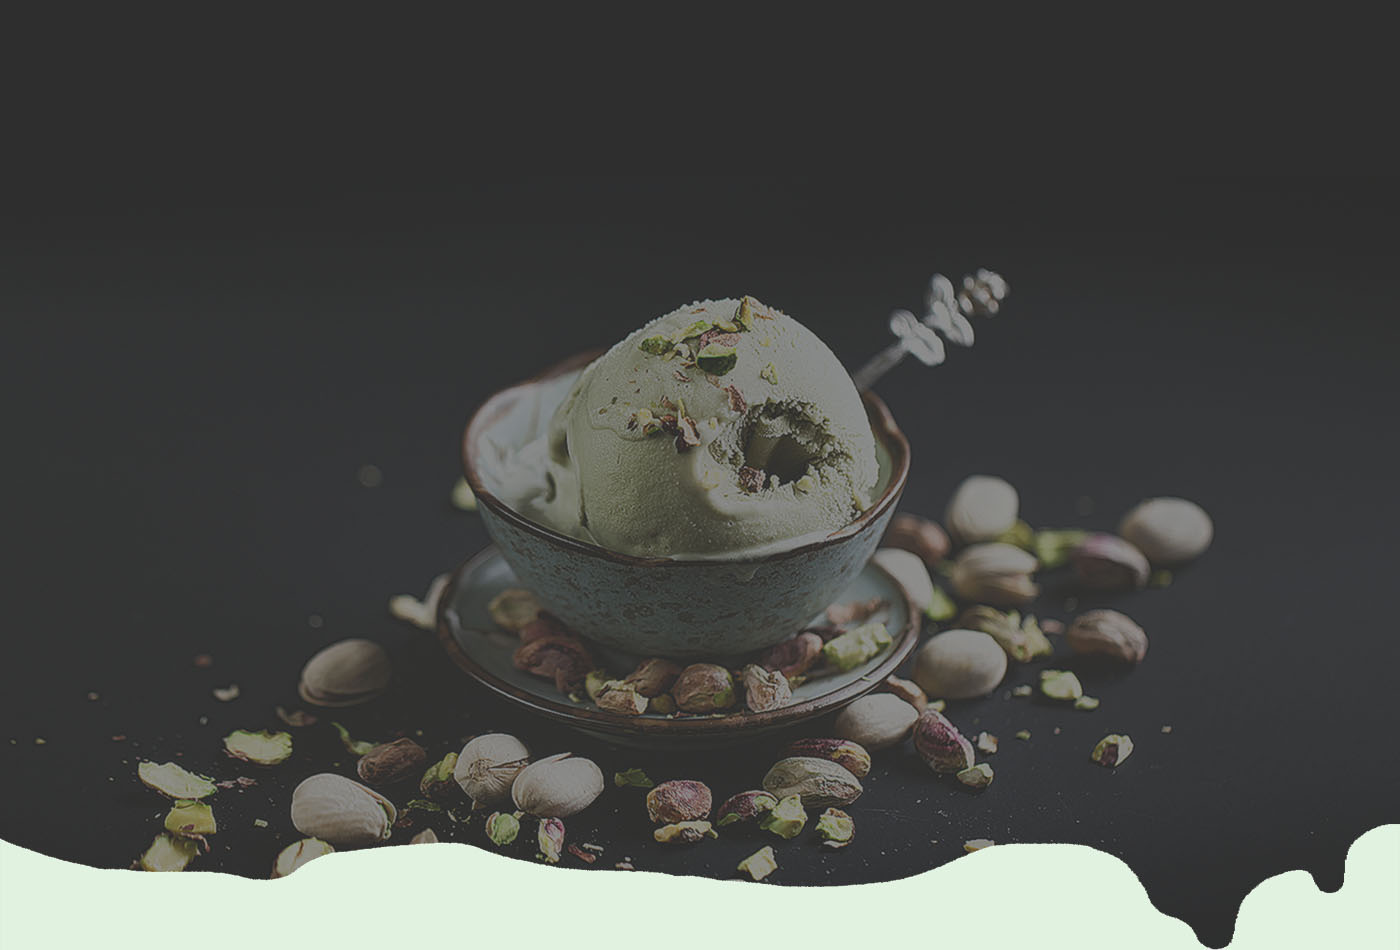
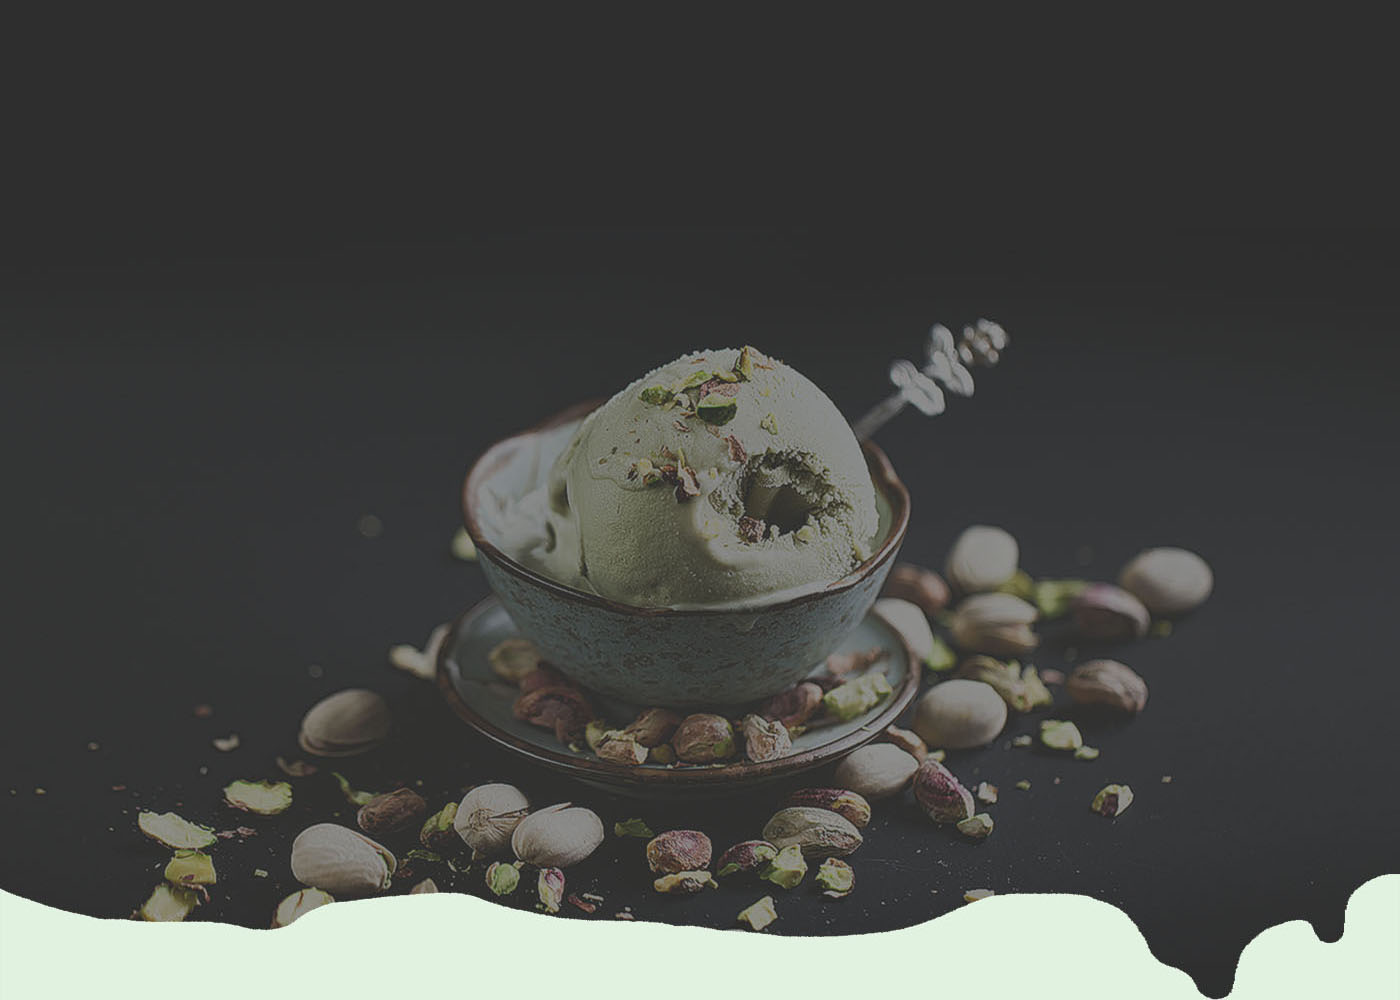
fix menu

diff --git a/icecream_shop/css/style.css b/icecream_shop/css/style.css
@@ -13,7 +13,13 @@ body {
 	clear: both;
 }
 
+.header {
+	background-color: #2e2e2e;
+	color: white;
+}
+
 .menu {
+	background-color: transparent;
 	width: 100%;
 	padding: 0px;
 }
@@ -93,14 +99,14 @@ body {
 	padding: 0px 15px;
 }
 
-.header {
+.banner {
 	background-image: url('../images/ice3.jpg');
 	background-repeat: no-repeat;
 	-webkit-background-size: cover;
 	-moz-background-size: cover;
 	-o-background-size: cover;
 	background-size: cover;
-	background-position: center; 
+	background-position: center bottom; 
 	position: relative;
 	color: white;
 }
@@ -247,13 +253,13 @@ body {
 	color: white;
 }
 
-.banner {
+.banner-content {
 	text-align: center;
-    width: 100%;
-    position: absolute;
-    left: 50%;
-    top: 50%;
-    transform: translate(-50%, -50%);
+	width: 100%;
+	position: absolute;
+	left: 50%;
+	top: 50%;
+	transform: translate(-50%, -50%);
 }
 
 .banner button {
@@ -982,6 +988,10 @@ button#signin:hover, button#confirmsignup:hover {
 	.social-item a i {
 		font-size: 0.6em;
 	}
+
+	.banner {
+		height: 500px;
+	}
 }
 
 @media (min-width: 500px) {
@@ -1027,6 +1037,10 @@ button#signin:hover, button#confirmsignup:hover {
 	.enter-mail {
 		width: 60%;
 	}
+
+	.banner {
+		height: 600px;
+	}
 }
 
 @media (max-width: 767px) {
@@ -1034,10 +1048,6 @@ button#signin:hover, button#confirmsignup:hover {
 		margin-top: 0.5em;
 		background-color: #363739; 
 		text-align: center;
-	}
-
-	.header {
-		height: 800px;
 	}
 
 	.about-us img {
@@ -1063,6 +1073,10 @@ button#signin:hover, button#confirmsignup:hover {
 	.review {
 		padding-top: 10em;
 	}
+
+	.banner .item {
+		width: 80%;
+	}
 }
 
 @media (min-width: 768px) {
@@ -1074,8 +1088,8 @@ button#signin:hover, button#confirmsignup:hover {
 		width:500px;
 	}
 
-	.header {
-		height: 1000px;
+	.banner {
+		height: 700px;
 	}
 
 	.modal-body{
@@ -1128,6 +1142,10 @@ button#signin:hover, button#confirmsignup:hover {
 	.review {
 		padding-top: 15em;
 	}
+
+	.banner .item {
+		width: 60%;
+	}
 }
 
 @media (min-width: 992px) {
@@ -1138,6 +1156,10 @@ button#signin:hover, button#confirmsignup:hover {
 
 	body {
 		font-size: 17px;
+	}
+
+	.banner {
+		height: 800px;
 	}
 
 	.social-grp {

diff --git a/icecream_shop/index.html b/icecream_shop/index.html
@@ -58,16 +58,18 @@
 				</nav>				
 			</div>
 		</div>
-		<div id="myOverlay" class="overlay">
-			<span class="closebtn" onclick="closeSearch()" title="Close Overlay">×</span>
-			<div class="overlay-content">
-				<form action = "">
-					<input type="text" placeholder="Search.." name="search">
-					<button type="submit"><i class="fa fa-search"></i></button>
-				</form>
-			</div>
+	</div>
+	<div id="myOverlay" class="overlay">
+		<span class="closebtn" onclick="closeSearch()" title="Close Overlay">×</span>
+		<div class="overlay-content">
+			<form action = "">
+				<input type="text" placeholder="Search.." name="search">
+				<button type="submit"><i class="fa fa-search"></i></button>
+			</form>
 		</div>
-		<div class="banner">
+	</div>
+	<div class="banner">
+		<div class="banner-content">
 			<div id="myCarousel" class="carousel slide" data-ride="carousel">
 				<div class="carousel-inner">
 					<div class="item active">
